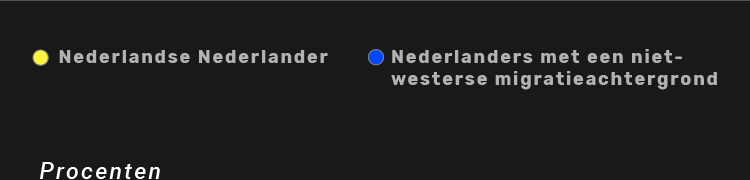
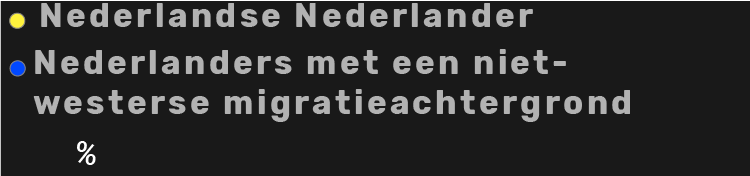
Update

diff --git a/index.js b/index.js
@@ -17,6 +17,8 @@ let buttongraph2a = document.querySelector(".buttongraph2a");
 let buttongraph2b = document.querySelector(".buttongraph2b");
 let graph2imga = document.querySelector(".graph2imga");
 let graph2imgb = document.querySelector(".graph2imgb");
+let graph2imga_mobile = document.querySelector(".graph2imga_mobile");
+let graph2imgb_mobile = document.querySelector(".graph2imgb_mobile");
 let graph2pa = document.querySelector(".graph2pa");
 let graph2pb = document.querySelector(".graph2pb");
 
@@ -61,6 +63,8 @@ window.onbeforeunload = function () {
 buttongraph2a.onclick = function() {
   graph2imga.classList.remove("invisible");
   graph2imgb.classList.add("invisible");
+  graph2imga_mobile.classList.remove("invisible");
+  graph2imgb_mobile.classList.add("invisible");
 
   graph2pa.classList.remove("invisible");
   graph2pb.classList.add("invisible");
@@ -72,6 +76,9 @@ buttongraph2a.onclick = function() {
 buttongraph2b.onclick = function() {
   graph2imgb.classList.remove("invisible");
   graph2imga.classList.add("invisible");
+
+  graph2imgb_mobile.classList.remove("invisible");
+  graph2imga_mobile.classList.add("invisible");
 
   graph2pb.classList.remove("invisible");
   graph2pa.classList.add("invisible");

diff --git a/index.html b/index.html
@@ -134,7 +134,7 @@
       <img src="images/testb.png" alt="" class="amsterdammobile testb">
     </div>
 
-    <img src="images/graph1.png" alt="" class="graph1img">
+    <img src="images/graph1.png" alt="" class="graph1img invisiblemobile">
   </article>
 
 
@@ -168,8 +168,10 @@ kwam?</p>
 culturele of religieuze achtergrond”</p>
         <button type="button" name="button" class="buttongraph2a">Terecht of onterecht door politie benaderd</button>
         <button type="button" name="button" class="buttongraph2b nietingedrukt">Beoordeeld op culturele achtergrond</button>
-        <img src="images/graph2a.png" alt="" class="graph2img graph2imga">
-        <img src="images/graph2b.png" alt="" class="graph2img graph2imgb invisible">
+        <img src="images/graph2a.png" alt="" class="graph2img graph2imga invisiblemobile">
+        <img src="images/graph2b.png" alt="" class="graph2img graph2imgb invisible invisiblemobile">
+        <img src="images/graph2a_mobile.png" alt="" class="graph2img graph2imga_mobile visiblemobile">
+        <img src="images/graph2b_mobile.png" alt="" class="graph2img graph2imgb_mobile invisible visiblemobile">
       </div>
     </section>
 

diff --git a/style.css b/style.css
@@ -692,6 +692,10 @@ button:hover {
     background-color: black;
   }
 
+  .invisiblemobile {
+    display: none;
+  }
+
   .visiblemobile {
     display: block !important;
   }
@@ -1064,7 +1068,7 @@ button:hover {
 
 
 .invisible {
-  display: none;
+  display: none !important;
 }
 
 .invisible2 {
@@ -1074,20 +1078,18 @@ button:hover {
 
 
 .testtest {
-  width: 100vw !important;
+  width: 85vw !important;
   height: auto !important;
   position: absolute;
   left: 0;
   z-index: 4;
-}
-
-.testa {
-  background-color: transparent !important;
+  margin-top: -1vh;
 }
 
 .testgraph {
   overflow-x: auto;
   padding-top: 5vh;
+  padding-bottom: 5vh;
 }
 
 .testgraph img {
